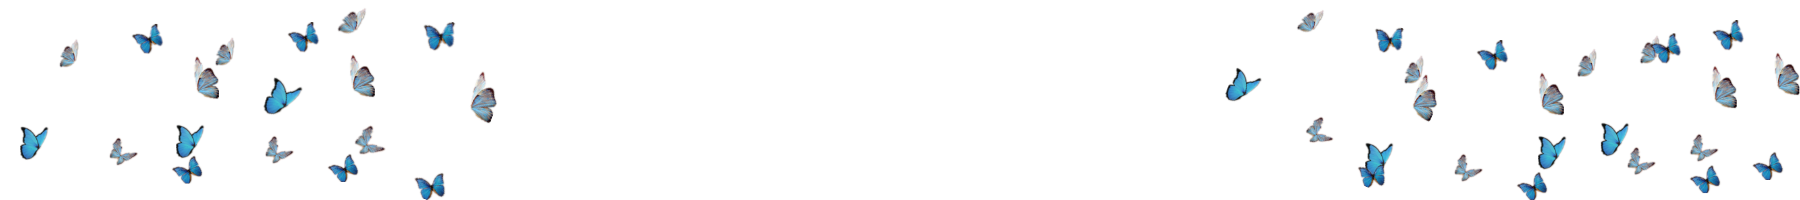
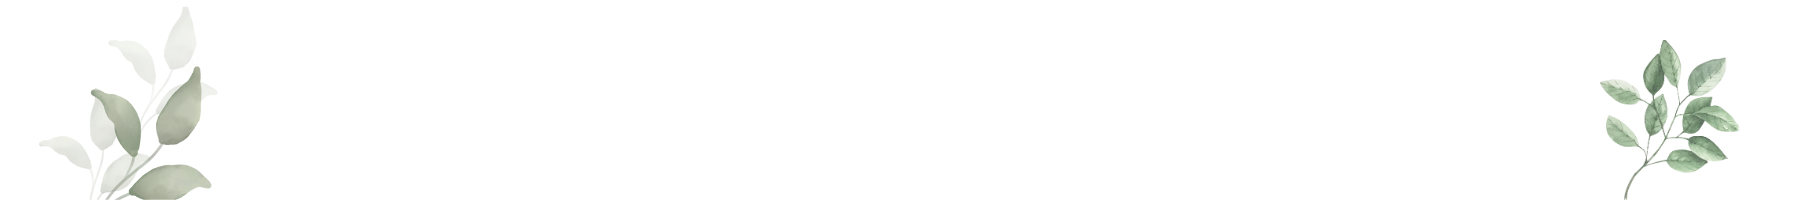
Testes

diff --git a/Web/main.js b/Web/main.js
@@ -179,7 +179,7 @@ let GeneralMoreAboutBluePrint = {
                 maxHeight:'100vh',
                 height:'10%',
                 scale:'0',
-                background:['radial-gradient(circle,rgba(240, 179, 255, 0.94),rgb(246, 246, 247),rgba(255, 255, 255, 0),rgba(2, 127, 211, 0))',
+                background:['radial-gradient(circle,rgba(251, 235, 255, 0.94),rgb(246, 246, 247),rgba(255, 255, 255, 0),rgba(2, 127, 211, 0))',
                   'radial-gradient(circle,rgb(0, 0, 0),rgba(255, 255, 255, 0))'],
               }
             }
@@ -528,13 +528,13 @@ let GeneralMoreAboutBluePrint = {
       Type:'div',
       Style:{
         position:'absolute',
-        width:{'Mobile':{'Portrait':'25%','Landscape':'25%'},'Pc':'5%'},
-        top:'14%',
+        width:{'Mobile':{'Portrait':'25%','Landscape':'25%'},'Pc':'20%'},
+        top:'2%',
         transform:'translate(-50%,-50%)',
-        height:{'Mobile':{'Portrait':'50%','Landscape':'50%'},'Pc':'7%'},
+        height:{'Mobile':{'Portrait':'50%','Landscape':'50%'},'Pc':'18%'},
          zIndex:'10',
-           backgroundImage:"url('./Images/Decoration1.png')",
-           left:'43%',
+           backgroundImage:"url('./Images/LineDecoration1.png')",
+           left:'61%',
            marginTop:'5%',
         backgroundRepeat:'no-repeat',
         backgroundPosition:'center',
@@ -601,8 +601,8 @@ let GeneralMoreAboutBluePrint = {
               position:'absolute',
               top:'0%',
               //color:'rgb(21, 0, 114)',
-                 width:'50%',
-             //borderBottom:['solid 1px black','solid 1px white'],
+                 width:'100%',
+             borderBottom:['solid 1px black','solid 1px white'],
              paddingBottom:'0%',
               left:'15%',
               opacity:'0',
@@ -642,6 +642,26 @@ let GeneralMoreAboutBluePrint = {
         fontSize:{'Mobile':{'Portrait':'1rem','Lanscape':'1rem'},'Pc':'1rem'},
         },
         Childs:{
+           SecondTextTitle:{
+            Id:'SecondTextTitle',
+            Type:'div',
+            Text:'Especializações',
+            Style:{
+              position:'absolute',
+              opacity:'0',
+                   fontWeight: '800',
+                fontSize:{'Mobile':{'Portrait':'1rem','Lanscape':'1rem'},'Pc':'1.5rem'},
+                top:{'Mobile':{'Portrait':'2%','Lanscape':'2%'},'Pc':'-15%'},
+                  left:'35%',
+            },
+               Listener:{
+    UmbraViewportLogic:{
+      Action:UmbraAnimations.Active,
+      Params:['SlideForRightAnimation','SecondTextTitle'],
+
+    }
+   },
+          },
           SecondText:{
             Id:'SecondText',
             Type:'div',
@@ -833,6 +853,7 @@ let GeneralMoreAboutBluePrint = {
         fontSize:{'Mobile':{'Portrait':'1rem','Lanscape':'1rem'},'Pc':'2rem'},
         },
         Childs:{
+          
           SecondLetter:{
             Id:'SecondLetter',
             Type:'div',
@@ -841,8 +862,9 @@ let GeneralMoreAboutBluePrint = {
               top:'50%',
               left:'75%',
              // color:'rgb(109, 37, 116)',
-              width:'50%',
+              width:'100%',
               opacity:'0',
+              borderBottom:['solid 1px black','solid 1px white'],
              
               
               transform:'translate(-50%,-50%)',
@@ -880,6 +902,26 @@ let GeneralMoreAboutBluePrint = {
         fontSize:{'Mobile':{'Portrait':'1rem','Lanscape':'1rem'},'Pc':'1rem'},
         },
         Childs:{
+          ThirdTextTitle:{
+            Id:'ThirdTextTitle',
+            Type:'div',
+            Text:'Especializações',
+            Style:{
+              position:'absolute',
+              opacity:'0',
+                   fontWeight: '800',
+                fontSize:{'Mobile':{'Portrait':'1rem','Lanscape':'1rem'},'Pc':'1.5rem'},
+                top:{'Mobile':{'Portrait':'2%','Lanscape':'2%'},'Pc':'3%'},
+                  left:'40%',
+            },
+               Listener:{
+    UmbraViewportLogic:{
+      Action:UmbraAnimations.Active,
+      Params:['SlideForRightAnimation','ThirdTextTitle'],
+
+    }
+   },
+          },
           ThirdText:{
             Id:'ThirdText',
             Type:'div',
@@ -1004,13 +1046,13 @@ let GeneralMoreAboutBluePrint = {
         position:'absolute',
         display:'none',
         width:{'Mobile':{'Portrait':'25%','Landscape':'25%'},'Pc':'10%'},
-        top:'24%',
+        top:'-2000%',
         transform:'translate(-50%,-50%)',
         height:{'Mobile':{'Portrait':'50%','Landscape':'50%'},'Pc':'70%'},
          zIndex:'10',
            backgroundImage:"url('./Images/DecorationNew4.png')",
            left:'18%',
-           scale:'-1 1',
+           
            marginTop:'5%',
         backgroundRepeat:'no-repeat',
         backgroundPosition:'center',
@@ -2492,7 +2534,7 @@ MainContainers:{
                 maxHeight:'100vh',
                 height:'10%',
                 scale:'0',
-                background:['radial-gradient(circle,rgba(240, 179, 255, 0.94),rgb(246, 246, 247),rgba(255, 255, 255, 0),rgba(2, 127, 211, 0))',
+                background:['radial-gradient(circle,rgba(234, 221, 238, 0.94),rgb(246, 246, 247),rgba(255, 255, 255, 0),rgba(2, 127, 211, 0))',
                   'radial-gradient(circle,rgb(0, 0, 0),rgba(255, 255, 255, 0))'],
               }
             }
